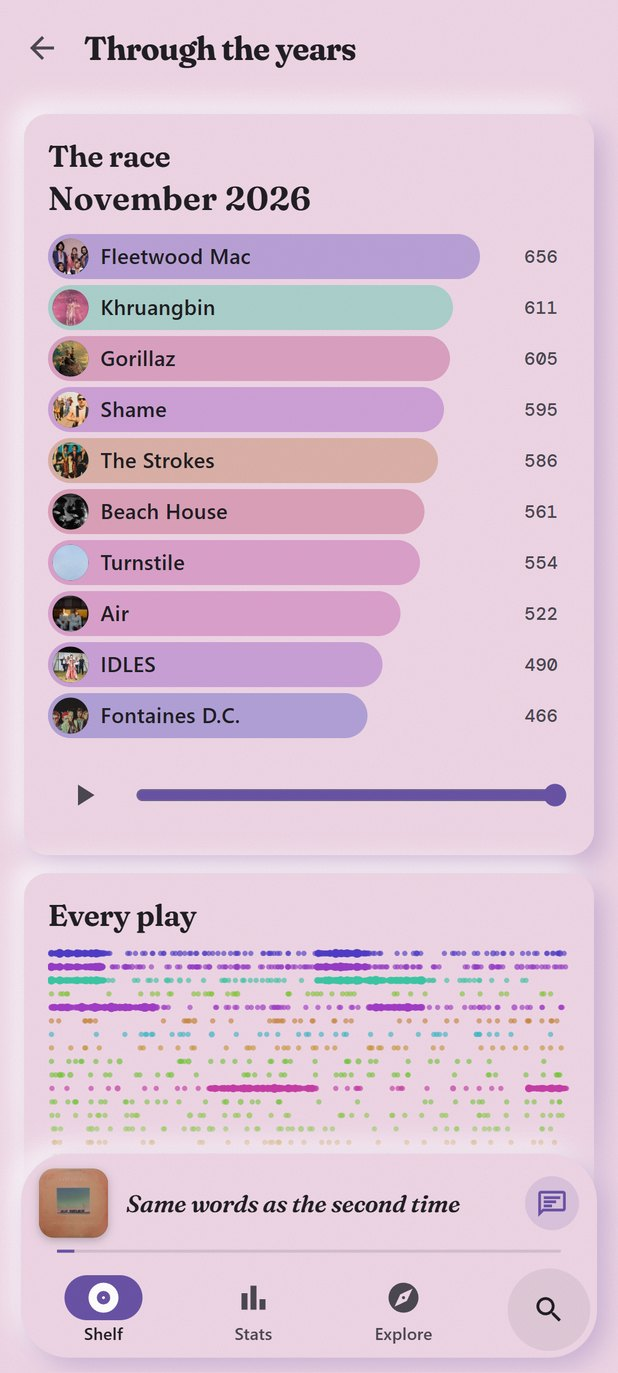
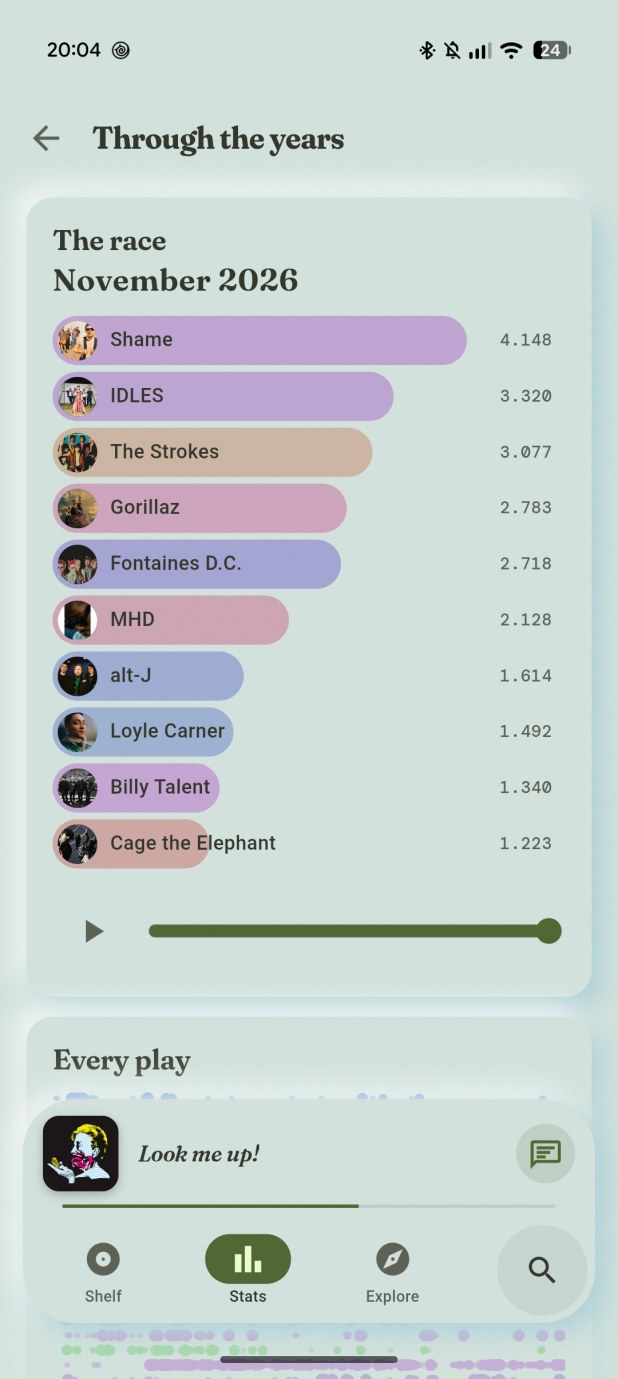
README: friendlier, with screenshots from the phone
The introduction tells how the app came about, and What it does is a
shorter list of what you can do with it, with the rest in one paragraph
and in the guide. It names the TIDAL history import and that Spotify's
is planned.

The screenshots and the banner are now taken on a phone with real
listening behind them, and show what came since 1.18: the period that
follows down the Stats page, a day in sessions, highlights playlists and
the tidier card binder.

diff --git a/README.md b/README.md
@@ -5,15 +5,17 @@ An Android app for your record shelf, everything else you listen to, and what it
 ![Heavy Rotation: the shelf, a record, a year as a river of artists, an artist and now playing with its lyrics](docs/screenshots/banner.jpg)
 
 Hiii! Heavy Rotation has been a very fun project to work on so far - and I hope that you'll enjoy it too!
-I wanted one place for my records and everything else I
-listen to: put a record on, tap once, and have it count next to what the phone plays, then see what
-it all adds up to and what cool stats I can get out of it. 
-It grew into much more than that, and there will probably be more changes in the future. I
-hope it turns out to be useful for you too!
 
-Heavy Rotation shows your [Discogs](https://www.discogs.com) collection as a shelf of covers and
-scrobbles the records you play to [Last.fm](https://www.last.fm). It scrobbles what plays on your
-phone as well, and it turns your whole Last.fm history into stats that know which records you own.
+It started because I wanted better stats for my listening. I use TIDAL, which sadly has nothing
+like Spotify Wrapped, but I've been scrobbling to [Last.fm](https://www.last.fm) for years, so I
+figured I could make my own stats from that. Then I wanted my vinyl in there too: put a record on,
+tap once, and have it count next to what the phone plays. And since the Last.fm app wasn't always
+reliable at scrobbling from my phone, I added that as well. One thing led to another, and it got a
+bit out of hand :)
+
+So now Heavy Rotation shows your [Discogs](https://www.discogs.com) collection as a shelf of
+covers, scrobbles the records you play and the music on your phone to Last.fm, and turns your whole
+listening history into stats that know which records you own.
 
 It is free and open source (MIT). You don't create an account, and there are no ads and no
 tracking. The app talks to Discogs, Last.fm, Deezer, MusicBrainz and TIDAL directly, with no server
@@ -21,84 +23,79 @@ of its own in between, and your data stays on your phone.
 
 ## What it does
 
-- One tap scrobbles a side, the whole record or a few tracks, timed to start now or earlier
-  ("last night"), or to have just finished. Tracks are timed from their real lengths, Last.fm shows "now
-  playing" while a side spins, the next side is one more tap, and all of it works offline.
-- The phone is scrobbled too: TIDAL, Spotify or any other music app, by Last.fm's rules (half the
-  track or 4 minutes). If you already use another scrobbler, shadow mode logs plays
-  without sending them, so you can check it works for you before you switch.
-- Stats cover a day, a week, a month, a year or all time, and each period is compared with the one
-  before: your plays as dots on a record, the period day by day as a calendar with your streaks, who
-  you played when, new artists, songs on repeat, genre drift, decades, where your artists are from
-  and a top 10, ranked by plays or by time listened. A month also has a race of your top artists,
-  day by day. The period follows you down the page, so you can step through the years while looking
-  at one chart, and the charts along time zoom out to your whole history with the period framed.
-- The stats know your shelf. They show the records you own but rarely play, the albums you stream a
-  lot but don't own yet, and how much of your listening was vinyl. Only vinyl turns the whole Stats
-  tab into stats of the records you played.
-- Any period also comes as a Wrapped-style story you tap through, in the colors of your top album.
-- Every artist, album, song and genre has its own page: plays over time, a song's chart run month by
-  month, their discography, and a genre's lineup poster and its year day by day.
-- Highlights are playlists of your most played songs of any year or month, or of one artist, as
-  long as you like.
-- Songs you play a lot become collector cards (bronze at 10 plays, up to holo at 100), and so do
-  albums you play through, all in one binder. A cover turns over to its card.
-- Under Your taste, Stats also has a musical atlas of the artists you play back to back with a
-  world map of where they're from, Through the years (the race of your top artists month by month,
-  every play, gaps and comebacks), you against everyone on Last.fm, your concerts and a map of your
-  genres.
-- The Explore tab suggests artists you haven't played yet, from who Last.fm's and Deezer's listeners
-  find alike to the artists you play, each with the reason, plus a weekly discovery mix and new
-  releases by your artists. It also has lost favorites, albums to rediscover and playlists to send
-  to TIDAL.
-- Stats comes as full-size blocks, as short cards that open full size, or in sections that mix
-  the two. Explore comes in rows you scroll sideways, artist, album and genre pages in tabs you swipe
-  between, and each can be one long page instead. The tabs stay at the bottom of every page, so one
-  tap takes you back.
-- A Now playing page for the phone shows the position, the controls, the music app's queue, the
-  album the song is on and the lyrics in time (from LRCLIB) on the song's blurred cover, over the
-  whole screen if you like. Now spinning has them for the record's track too. What plays can also
-  sit in the bottom bar, with the line being sung.
-- Concerts come from setlist.fm: a playlist of what an artist has been playing live lately, the
-  setlist of one show, their shows coming up, and the shows you were at, with what each did to your
-  listening.
-- The Fix names setting cleans up names before they're scrobbled ("Remastered", "feat." and your
-  own rules).
-- Songs that Pixel's Now Playing recognises around you wait in a list to scrobble or drop, and one
-  on a record of yours can scrobble that record from there. Identify finds a song from ten seconds
-  of sound.
-- Any album can be scrobbled by hand after you heard it elsewhere: find it in search (Deezer's
-  catalog is in there too) and say when you played it.
-- TIDAL's own record of your listening (the `streaming.csv` of its data export) can be imported, so
-  the stats reach back to your first stream there, long before your Last.fm history starts.
-- A home-screen widget shows what is playing now.
-- The app uses Material You colors in light and dark, with two looks (Tinted soft and Soft glass).
-  Covers tilt with the phone, and the records you own get a holo foil. Your records show the
-  album's usual cover, or the picture of your own copy if you'd rather.
+This is the short version. [The guide](docs/GUIDE.md) has everything.
+
+- Scrobble your vinyl. Pick a record from your shelf and scrobble a side, the whole album or a few
+  tracks, starting now, earlier ("last night") or just finished. Tracks are timed from their real
+  lengths, the next side is one more tap, and all of it works offline.
+- Scrobble your phone. TIDAL, Spotify or any other music app, by Last.fm's rules. If you already
+  use another scrobbler, shadow mode only logs what it would send and then compares that with what
+  reached Last.fm, so you can check it works for you before you switch.
+- Dig through your stats. A day, a week, a month, a year or all time, each compared with the one
+  before: a calendar with your streaks, who you played when, new artists, songs on repeat, genres,
+  decades, where your artists are from and a top 10 by plays or by time listened. The period
+  follows you down the page, so you can step through the years while looking at one chart, and
+  the charts along time zoom out to your whole history.
+- See what your shelf has to do with it. The stats show the records you own but rarely play, the
+  albums you keep streaming but don't own yet, and how much of your listening was vinyl. Only
+  vinyl turns the whole Stats tab into stats of the records you played.
+- Watch it move. There is a race of your top artists through the years (and day by day within a
+  month), a year as a river of artists, and a Wrapped-style story for any period in the colors of
+  your top album.
+- Open anything. Every artist, album, song and genre has its own page: plays over time, a song's
+  chart run month by month, the discography, and a genre's lineup poster.
+- Collect cards. A slightly silly one: songs you play a lot become collector cards (bronze at 10
+  plays, up to holo at 100), and so do albums you play through, all in one binder.
+- Make playlists from your history. Highlights are your most played songs of any year or month,
+  or of one artist, as long as you like. They go straight into TIDAL, or anywhere else as a list
+  you copy.
+- Get ready for a concert. Before a show I used to look up what the artist had been playing
+  lately and put a playlist together to get to know the songs. With setlist.fm connected, the app
+  does that for me. It also knows the shows you were at and what each did to your listening.
+- Find something to play. Explore suggests artists you haven't played yet, each with the reason,
+  plus a weekly discovery mix, new releases by your artists, lost favorites and albums to
+  rediscover.
+- Sing along. Now playing has the lyrics in time (from LRCLIB) on the song's blurred cover, over
+  the whole screen if you like, and the line being sung can sit in the bottom bar.
+- Bring your older history. TIDAL's own record of your listening (the `streaming.csv` of its data
+  export) can be imported, so the stats reach back to your first stream there, long before your
+  Last.fm history starts. Importing Spotify's history the same way is planned.
+
+And there is more in there: songs that Pixel's Now Playing recognises around you wait in a list to
+scrobble or drop, Identify finds a song from ten seconds of sound, any album can be scrobbled by
+hand after you heard it elsewhere, Fix names cleans up "Remastered" and "feat." before a scrobble
+goes out, a home-screen widget shows what is playing, and the app wears Material You colors in
+light and dark with two looks (Tinted soft and Soft glass).
 
 | | | |
 | :---: | :---: | :---: |
 | <img src="docs/screenshots/shelf.jpg" width="240" alt="The shelf"> | <img src="docs/screenshots/record.jpg" width="240" alt="A record"> | <img src="docs/screenshots/stats-month.jpg" width="240" alt="A month of stats"> |
-| Your shelf | A record, ready to scrobble | A month, compared with the last |
-| <img src="docs/screenshots/race.jpg" width="240" alt="The race of your top artists"> | <img src="docs/screenshots/story.jpg" width="240" alt="The story"> | <img src="docs/screenshots/now-playing.jpg" width="240" alt="Lyrics on the song's cover"> |
-| The race, through the years | The story | Lyrics on the cover |
-| <img src="docs/screenshots/artist.jpg" width="240" alt="An artist"> | <img src="docs/screenshots/cards.jpg" width="240" alt="Your cards"> | <img src="docs/screenshots/explore.jpg" width="240" alt="Explore"> |
-| An artist | Your cards | Explore |
+| Your shelf | A record from the shelf | A month, compared with the last |
+| <img src="docs/screenshots/day.jpg" width="240" alt="Today's listening, session by session"> | <img src="docs/screenshots/river.jpg" width="240" alt="A year as a river of artists"> | <img src="docs/screenshots/race.jpg" width="240" alt="The race of your top artists"> |
+| Today so far | A year as a river | The race, through the years |
+| <img src="docs/screenshots/story.jpg" width="240" alt="The story"> | <img src="docs/screenshots/artist.jpg" width="240" alt="An artist"> | <img src="docs/screenshots/cards.jpg" width="240" alt="Your cards"> |
+| The story | An artist | Your cards |
+| <img src="docs/screenshots/playlist.jpg" width="240" alt="A playlist of a year's most played songs"> | <img src="docs/screenshots/now-playing.jpg" width="240" alt="Now playing, with the song's lyrics"> | <img src="docs/screenshots/explore.jpg" width="240" alt="Explore"> |
+| Highlights of a year | Now playing, with lyrics | Explore |
 | <img src="docs/screenshots/covers.jpg" width="240" alt="A month in covers"> | <img src="docs/screenshots/glass.jpg" width="240" alt="The shelf in Soft glass"> | <img src="docs/screenshots/shelf-dark.jpg" width="240" alt="The shelf in the dark"> |
 | A month in covers | Soft glass | In the dark |
 
-The screenshots show the app's demo data, with real covers and artist photos from Deezer.
+The screenshots are from my own phone, so that is my shelf and my listening (and my phone speaks
+German, hence "Okt."). The colors follow the song that is playing.
 
 ## Get it
 
-Download the latest `HeavyRotation-x.y.apk` from the Releases page and open it on the phone
-(Android 8 or newer). Android asks once to allow installs from the app you opened it with.
+Download the latest `HeavyRotation-x.y.apk` from the [Releases page](../../releases/latest) and
+open it on the phone (Android 8 or newer). Android asks once to allow installs from the app you
+opened it with.
 
 Play Protect may warn about an unknown app, mostly because the app isn't from the Play Store and
 can use notification access (for phone scrobbling). Tap More details, then Install anyway.
 
 To update, install a newer APK over the old one; your data stays. [Obtainium](https://obtainium.imranr.dev/)
 can watch the Releases page and update the app for you.
+
+Android only for now, sorry!
 
 ## Set up
 
@@ -110,7 +107,8 @@ can watch the Releases page and update the app for you.
    notification access. Switch it to On once it matches what you expect.
 5. Optional: connect TIDAL in Settings → TIDAL for exact links and for playlists that go straight
    into your TIDAL. Until TIDAL approves the app, this needs your own free TIDAL developer app (the
-   guide shows how); without it, the TIDAL buttons open TIDAL's search.
+   guide shows how); without it, the TIDAL buttons open TIDAL's search. Scrobbling what plays in
+   TIDAL works either way.
 
 [The guide](docs/GUIDE.md) covers every step and everything else the app does.
 
@@ -145,13 +143,16 @@ The world map's outlines are from [Natural Earth](https://www.naturalearthdata.c
 
 ## Feedback
 
-I'd love to hear from you: what works, what doesn't, and what you'd like it to do. Open an
-[issue](../../issues) for bugs and ideas alike.
+I'd love to hear from you: what works, what doesn't, and what you'd like it to do. I'm sure there
+are still bugs. Open an [issue](../../issues) for bugs and ideas alike, especially if you have
+ideas for other fun things to do with Last.fm data.
 
 ## How it was made
 
-I designed Heavy Rotation and tested it on my own shelf and phone, and wrote it with the help of
-Claude, Anthropic's AI coding assistant.
+I'm not an Android developer. I designed Heavy Rotation and tested it on my own shelf and phone,
+and built it with a lot of help from Claude, Anthropic's AI coding assistant. I couldn't have made
+something like this from scratch otherwise, and it has been a really fun project to work on and
+learn from.
 
 ## Building it yourself
 
